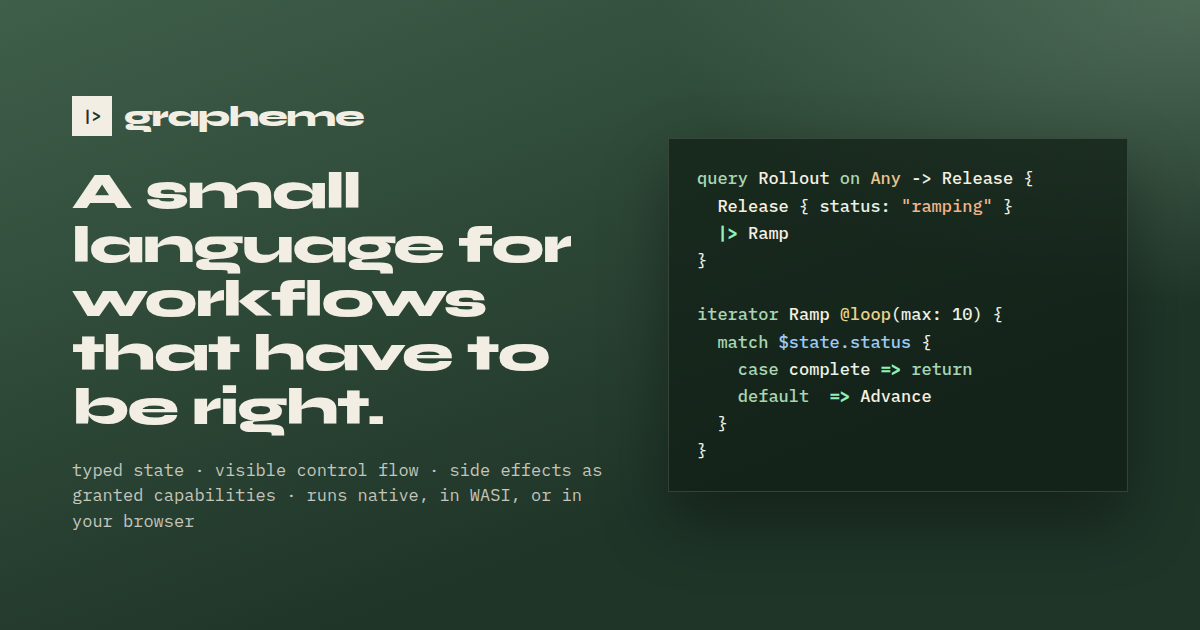
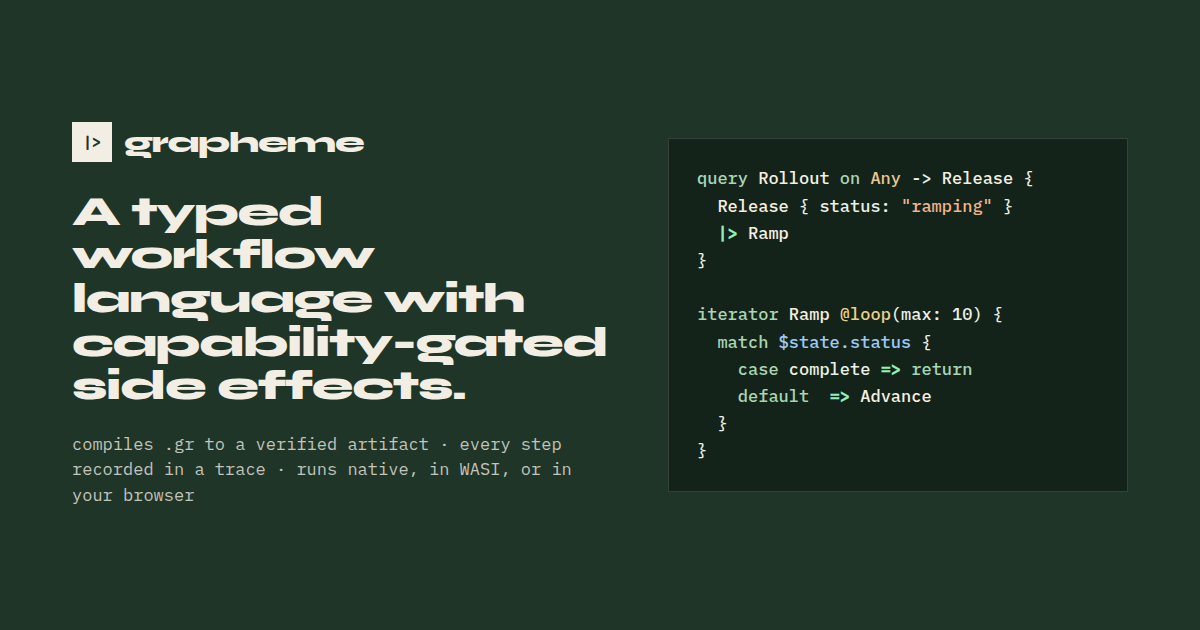
Site metadata: concrete title/description, flat OG card
Replace the 'workflows that have to be right' tagline in the title, meta
description, og:image:alt and social card with what the thing is.

diff --git a/site/scripts/og.html b/site/scripts/og.html
@@ -12,9 +12,7 @@
 			body {
 				font-family: 'Syne', sans-serif;
 				color: #f3eee4;
-				background:
-					radial-gradient(900px 500px at 100% 0%, rgba(138, 171, 146, 0.35), transparent 60%),
-					linear-gradient(160deg, #3f5f4a, #1f3528 70%);
+				background: #1f3528;
 				display: grid;
 				grid-template-columns: 1fr 460px;
 				padding: 64px 72px;
@@ -27,7 +25,7 @@
 				background: #f3eee4; color: #1f3528; font: 700 15px 'IBM Plex Mono', monospace; font-style: normal;
 			}
 			.mark span { font-size: 30px; font-weight: 800; letter-spacing: -0.04em; }
-			h1 { font-size: 52px; line-height: 1.04; letter-spacing: -0.03em; font-weight: 800; max-width: 560px; }
+			h1 { font-size: 42px; line-height: 1.04; letter-spacing: -0.03em; font-weight: 800; max-width: 560px; }
 			p { margin-top: 24px; font: 400 17px/1.5 'IBM Plex Mono', monospace; color: rgba(243, 238, 228, 0.78); max-width: 540px; }
 			.code {
 				background: rgba(15, 28, 20, 0.7);
@@ -36,7 +34,6 @@
 				font: 500 17px/1.6 'IBM Plex Mono', monospace;
 				white-space: pre;
 				color: #eaf0e6;
-				box-shadow: 0 30px 60px rgba(0, 0, 0, 0.35);
 			}
 			.k { color: #a8d5b3; } .d { color: #f6efe0; font-weight: 500; } .s { color: #f0b48a; }
 			.v { color: #9ec9f5; } .p { color: #8ff0b8; font-weight: 700; } .a { color: #e9d18a; } .t { color: #e8c38f; }
@@ -45,8 +42,8 @@
 	<body>
 		<div>
 			<div class="mark"><i>|&gt;</i><span>grapheme</span></div>
-			<h1>A small language for workflows that have to be right.</h1>
-			<p>typed state · visible control flow · side effects as granted capabilities · runs native, in WASI, or in your browser</p>
+			<h1>A typed workflow language with capability-gated side effects.</h1>
+			<p>compiles .gr to a verified artifact · every step recorded in a trace · runs native, in WASI, or in your browser</p>
 		</div>
 		<div class="code"><span class="k">query</span> <span class="d">Rollout</span> <span class="k">on</span> <span class="t">Any</span> -&gt; <span class="d">Release</span> {
   <span class="d">Release</span> { status: <span class="s">"ramping"</span> }

diff --git a/site/src/lib/site.ts b/site/src/lib/site.ts
@@ -7,7 +7,7 @@ import { env } from '$env/dynamic/public';
 export const SITE_URL = (env.PUBLIC_SITE_URL ?? '').replace(/\/$/, '');
 
 export const SITE_NAME = 'Grapheme';
-export const DEFAULT_TITLE = 'Grapheme — a small language for workflows that have to be right';
+export const DEFAULT_TITLE = 'Grapheme — a typed workflow language with capability-gated side effects';
 export const DEFAULT_DESCRIPTION =
-	'Typed state, visible control flow, side effects as capabilities you grant. Compiles to a verified artifact; runs native, in WASI, or in your browser.';
+	'Grapheme compiles .gr programs to a verified artifact and executes them step by step. Side effects are capabilities the host grants; every step is recorded in a trace. Runs native, in WASI, or in your browser.';
 export const GITHUB_URL = 'https://github.com/EntasisLabs/grapheme';
